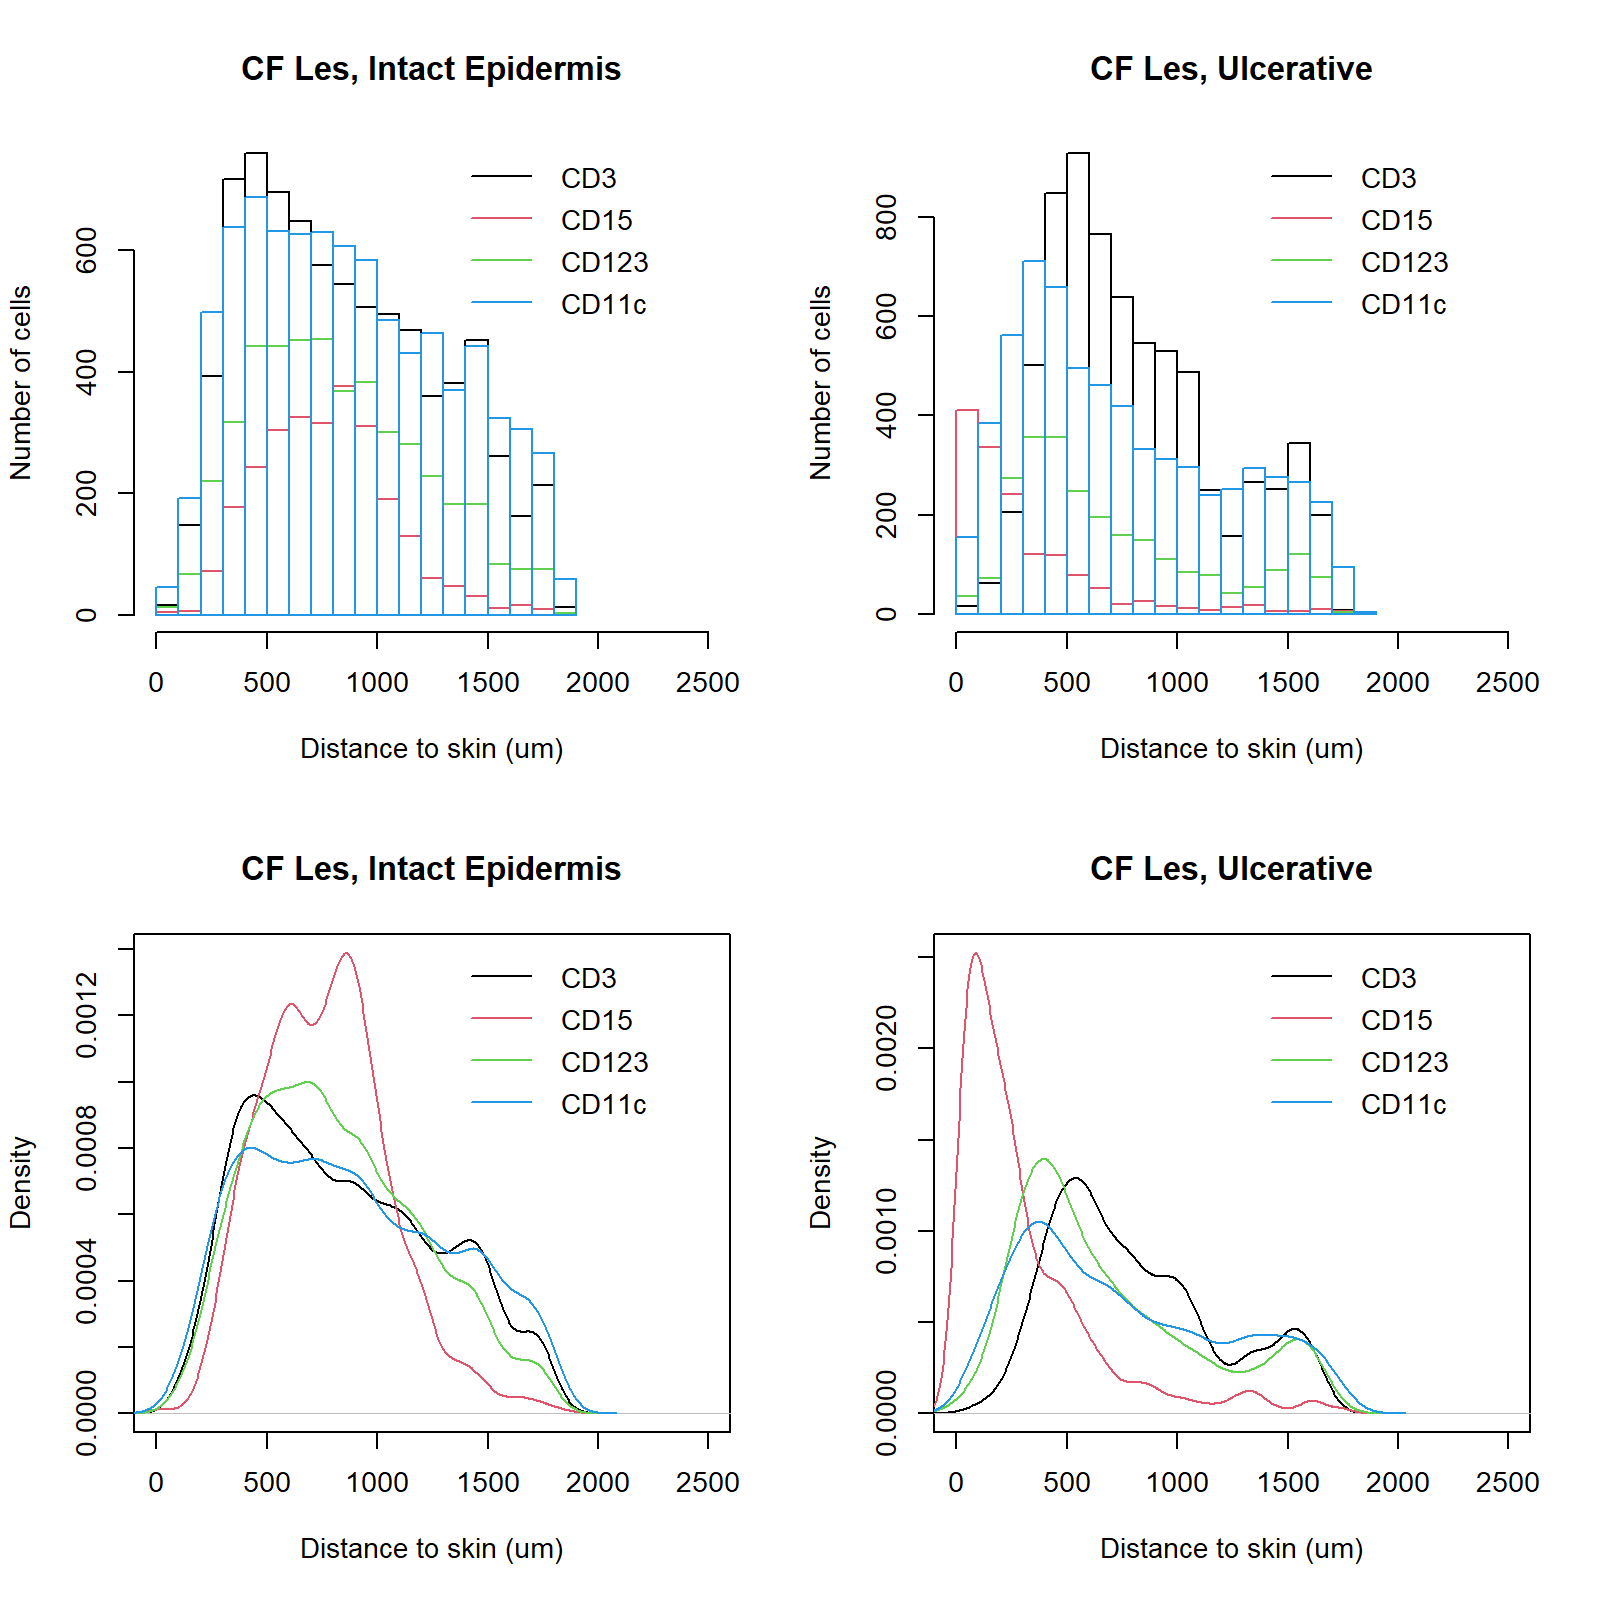
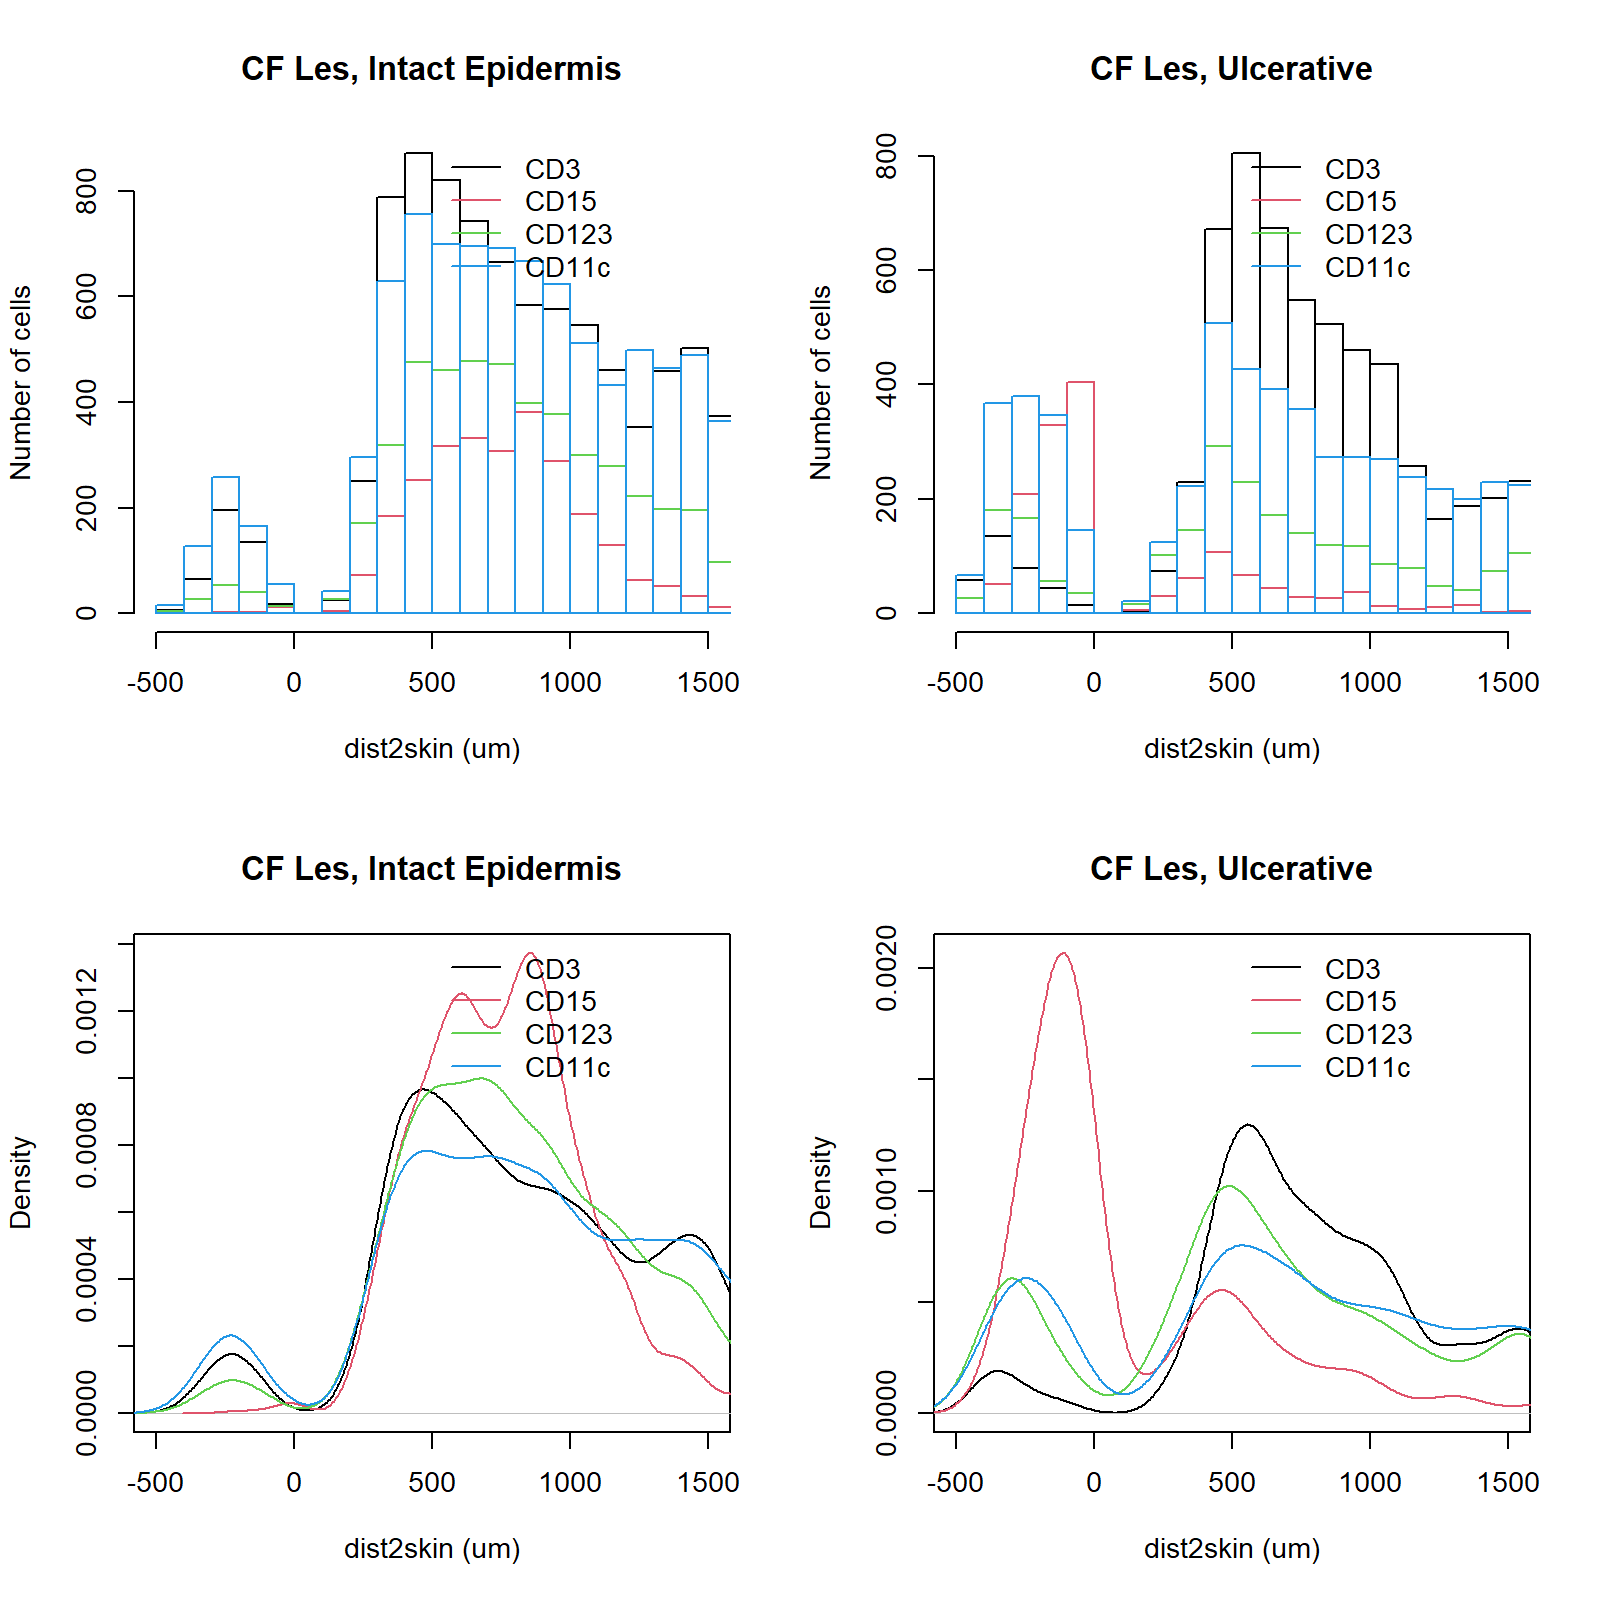
analysis of distance to DEJ

diff --git a/report_DEJ_skin_CFDD.md b/report_DEJ_skin_CFDD.md
@@ -1,0 +1,33 @@
+# Distance to skin boundary
+
+## Methods
+For each sample, we will compare the distribution of each markers in the normal and lesion regions.
+
+- Markers for DD:       CD3, CD4, CD8a, CD11c, CD15, CD45, CD68, CD69, CD123, CD279 
+
+- Markers for CF: CD1a, CD3, CD4, CD8a, CD11c, CD15, CD45,       CD69, CD123, CD279 
+(CD68 did not pass QC)
+
+
+Considerations on region boundary and distance metric:
+1. Should we draw the boundary between normal and lesion based on WGA only or all markers? 
+2. Shall each ROI be convex?
+
+For (1), the two choices lead are answering different questions. Drawing boundary based on WGA only answers a stronger question than drawing the boundary based on all markers. 
+
+For (2), a convex shape is a shape that a line connecting any two points in the shape completely lies within the shape. Practically speaking, in this context it is equivalent to drawing a straight line to separate normal from lesion. Pros for straight boundary: the span between any cell and the closest point on the skin lies completely within the region. So the distance measure is well defined. In contrast, if a line from a cell to its closest point on the skin surface cuts through both normal and lesion regions, the interpretation of distance to skin surface is muddled. Pros for curved boundary: Regions (which is a type of neighborhoods) do not necessarily have geometric shapes. 
+
+These two questions are also intertwined. If we use WGA only to draw boundaries, we can only use straight line boundaries because the difference between normal and lesion is only visible in epidermis in WGA staining. A straight line can be drawn in epidermis and extend to dermis, but not a curve.
+
+## Results
+
+    
+![plot](R/figures/DD_dist2skin_compare_markers.png?raw=true)
+
+![plot](R/figures/CF_dist2skin_compare_markers.png?raw=true)
+
+![plot](R/figures/DD_dist2DEJ_compare_markers.png?raw=true)
+
+![plot](R/figures/CF_dist2DEJ_compare_markers.png?raw=true)
+
+
